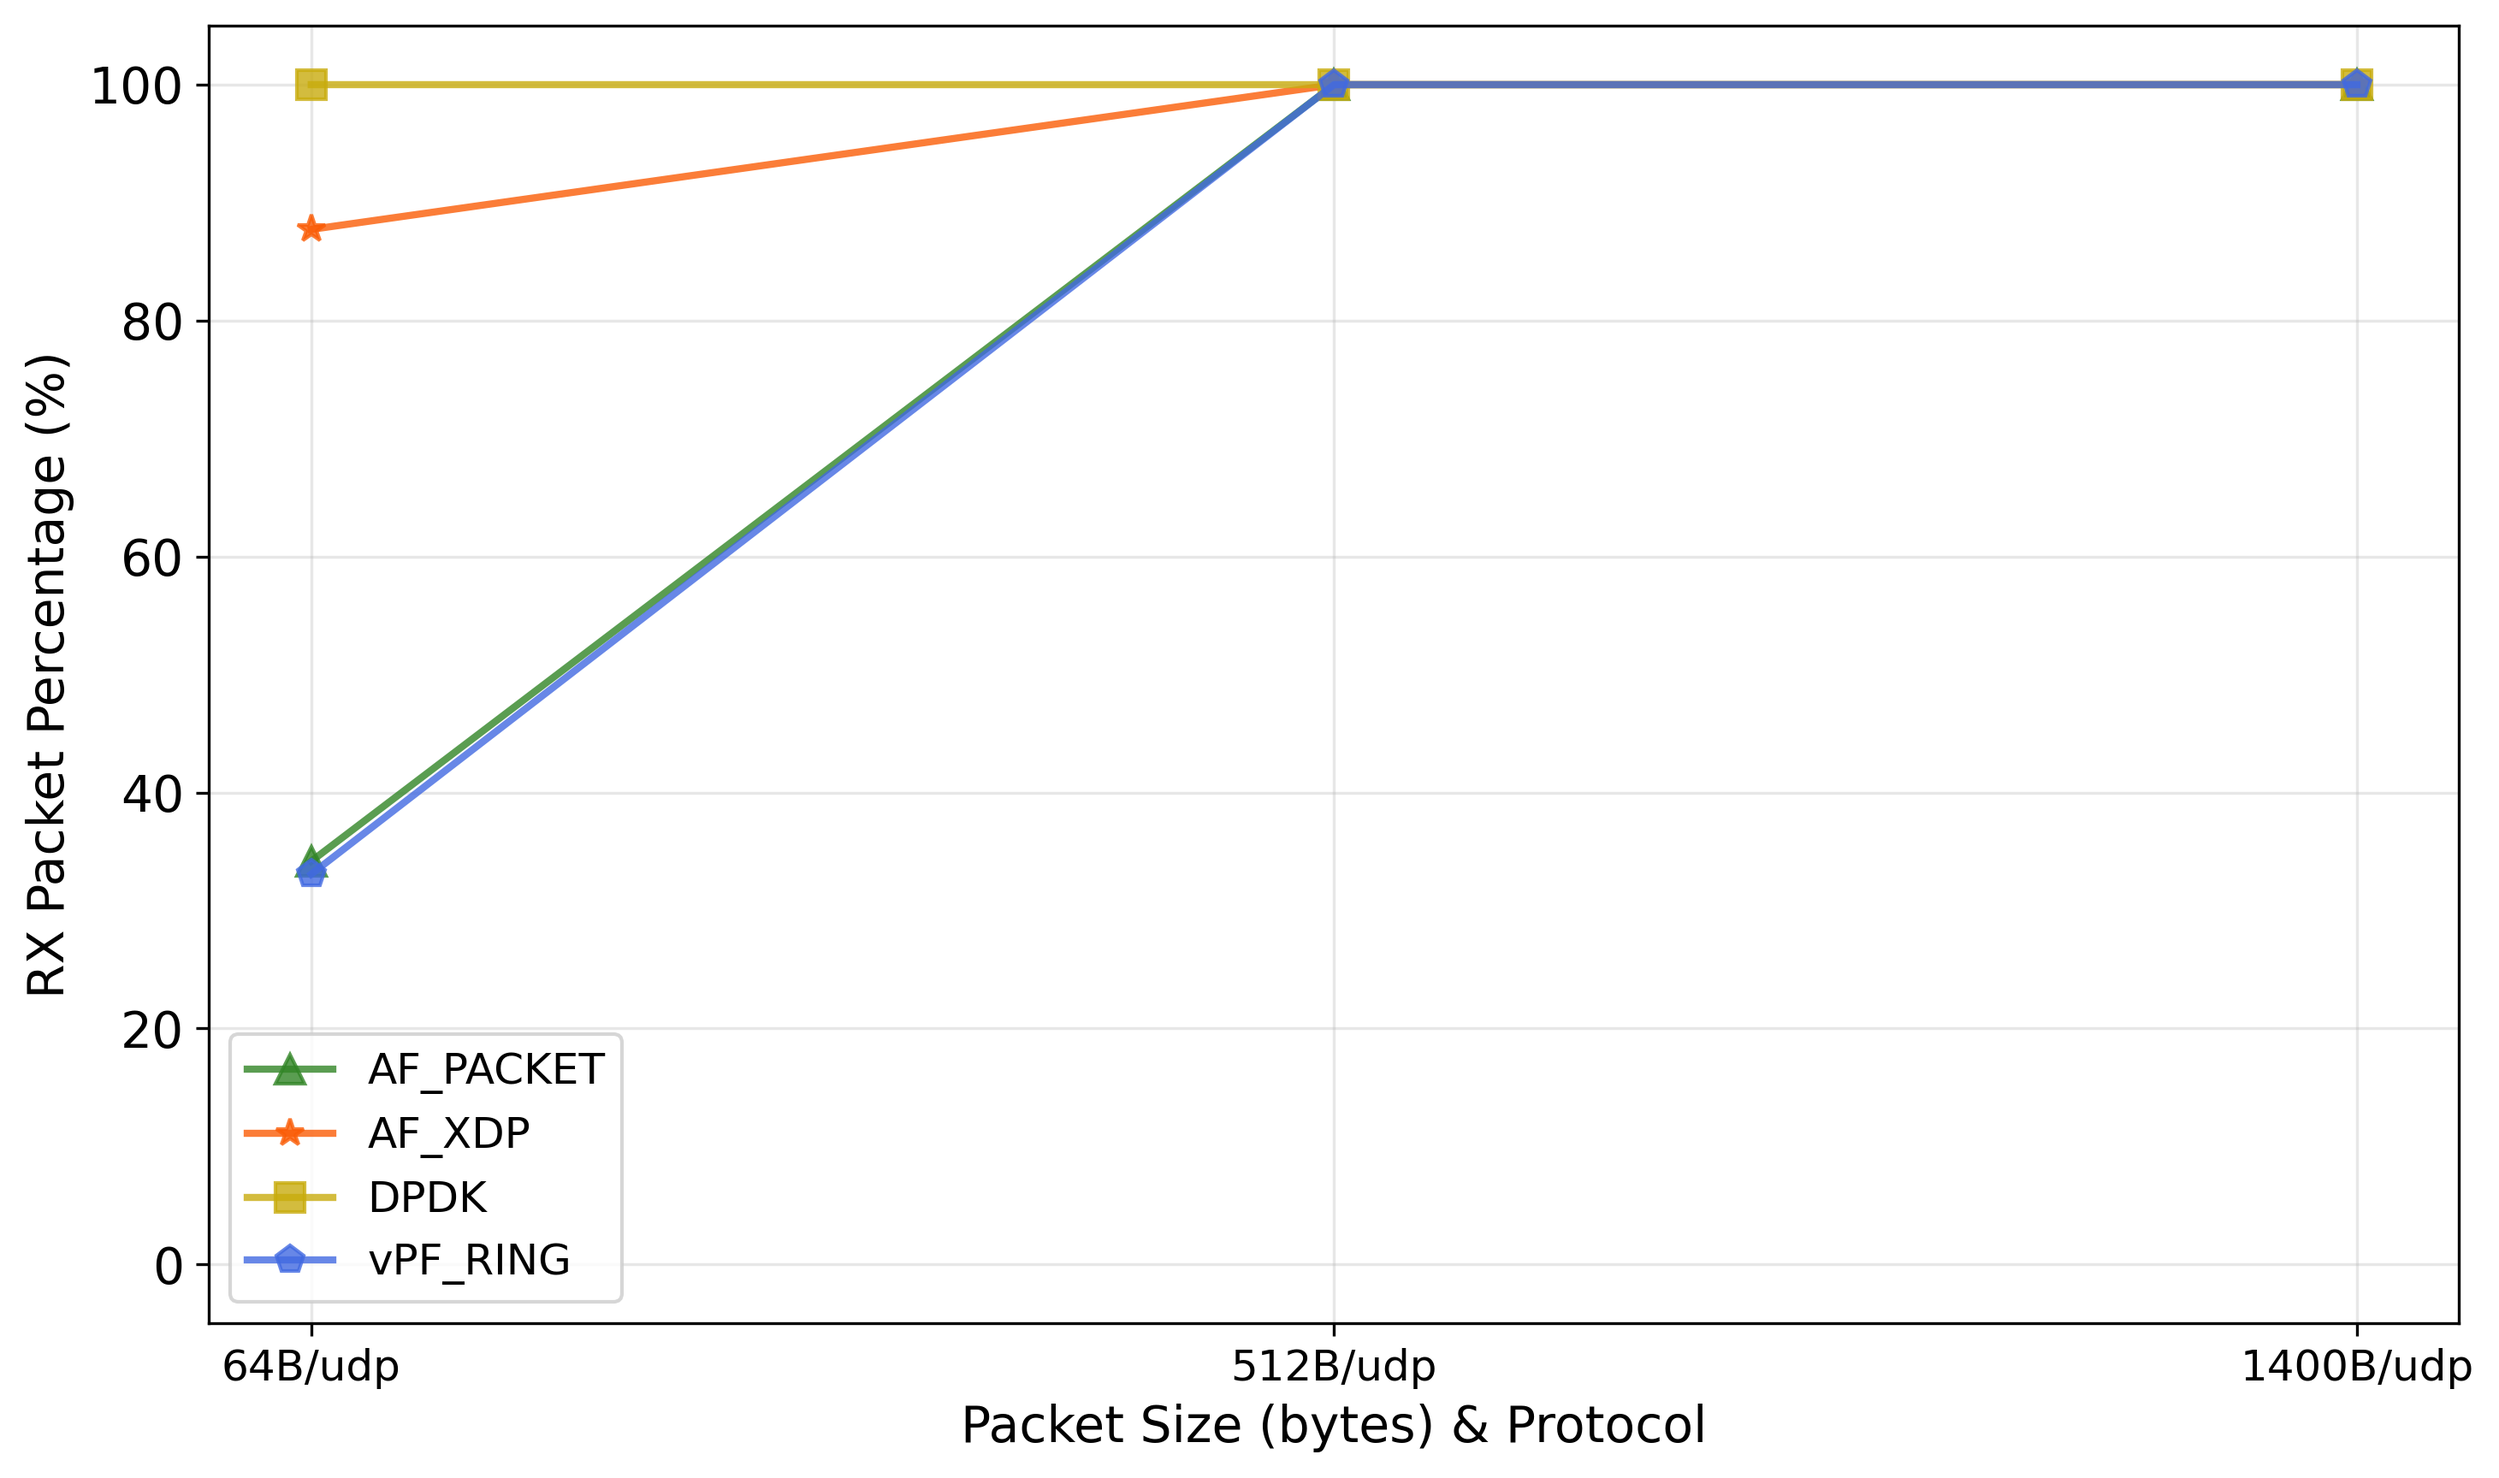
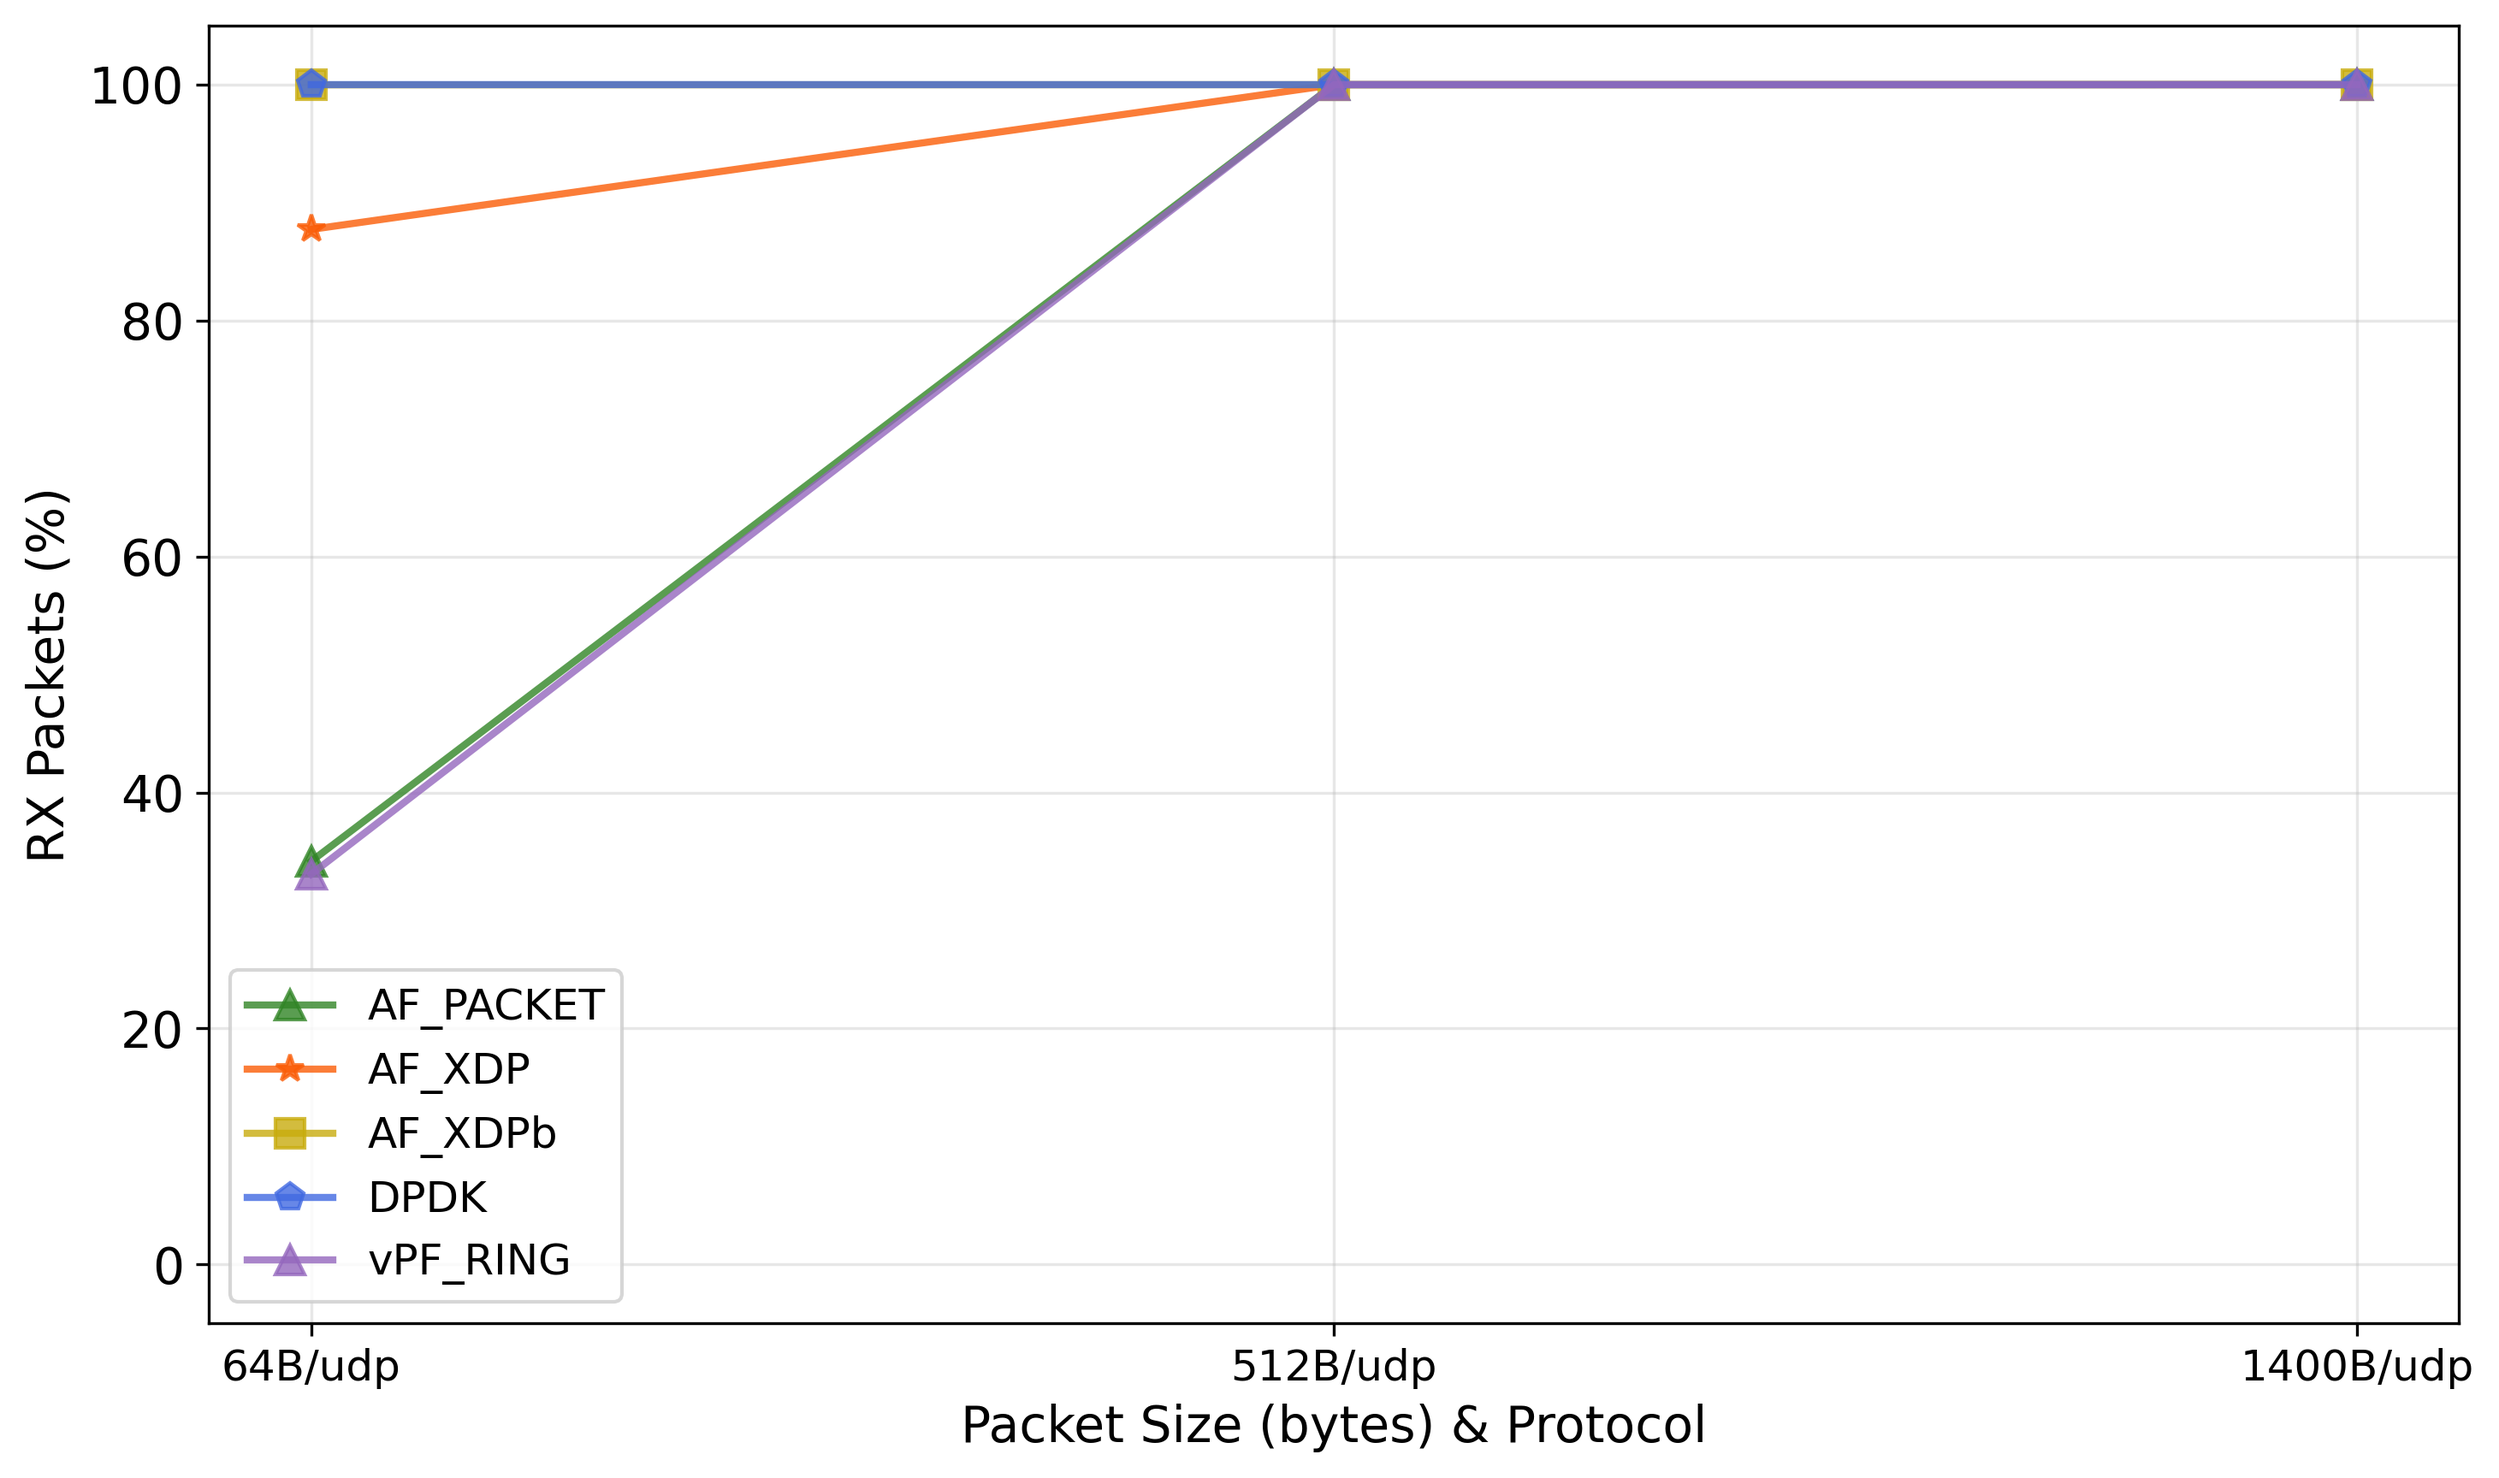
Final set of experiments

diff --git a/plotting/plot_configuration_eval.py b/plotting/plot_configuration_eval.py
@@ -180,7 +180,7 @@ def plot_by_speed(parsed_results, output_folder):
         
         # Customize plot
         ax.set_xlabel("Packet Size (bytes) & Protocol")
-        ax.set_ylabel("RX Packet Percentage (%)")
+        ax.set_ylabel("RX Packets (%)")
         # ax.set_title(f"Packet Reception Percentage - Speed: {speed} Gbps", )
 
         ax.set_ylim(-5,105)
@@ -241,7 +241,7 @@ def plot_configs_by_strategy(parsed_results, output_folder):
                     )
 
             ax.set_xlabel("Speed (Gbps)")
-            ax.set_ylabel("RX Packet Percentage (%)")
+            ax.set_ylabel("RX Packets (%)")
             ax.set_ylim(-5, 105)
             ax.set_xticks(x_positions)
             ax.set_xticklabels([f"{speed}" for speed in all_speeds])

diff --git a/plotting/plot_baseline_multi_flows.py b/plotting/plot_baseline_multi_flows.py
@@ -158,7 +158,7 @@ def plot_by_scenario(parsed_results, output_folder):
                 )
 
         ax.set_xlabel("Number of Threads")
-        ax.set_ylabel("RX Packet Percentage (%)")
+        ax.set_ylabel("RX Packets (%)")
 
         ax.set_ylim(-5, 105)
         ax.set_xticks(x_positions)
